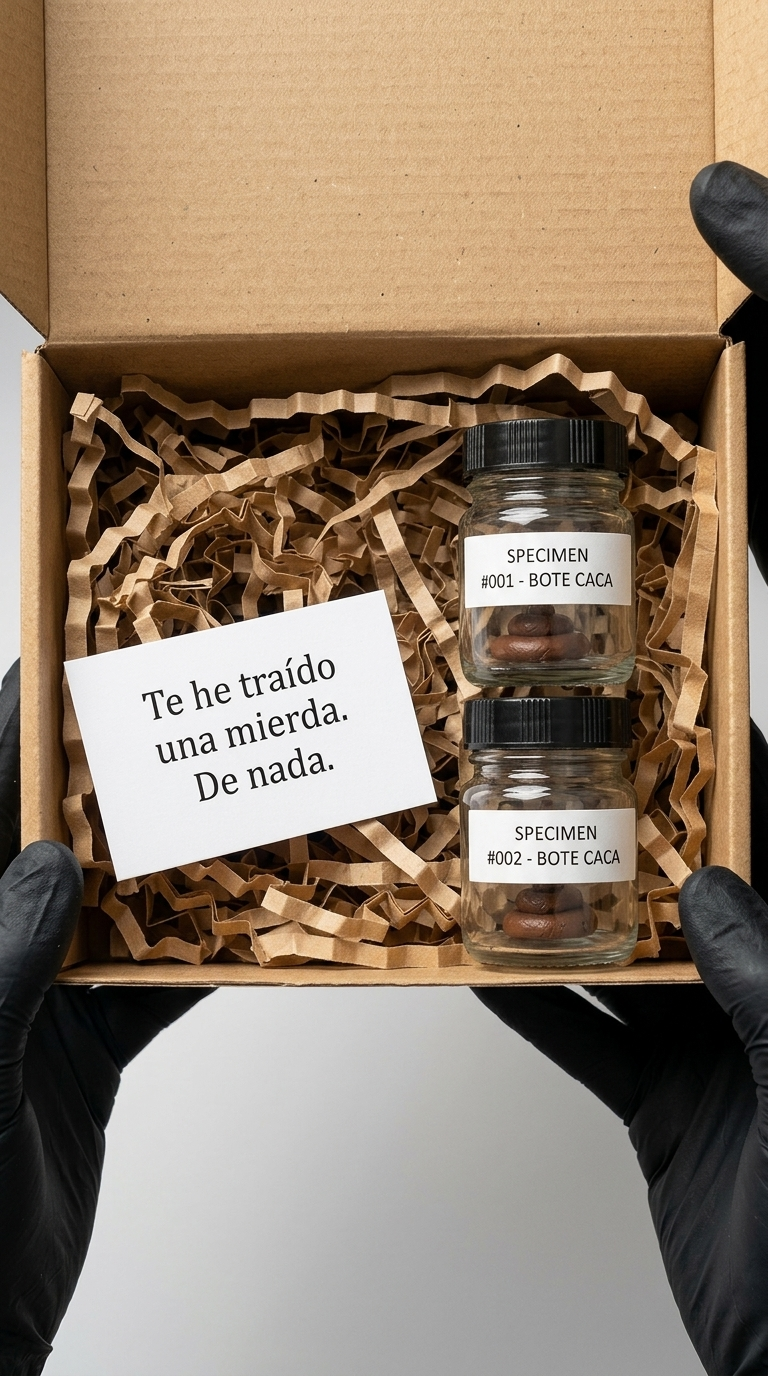
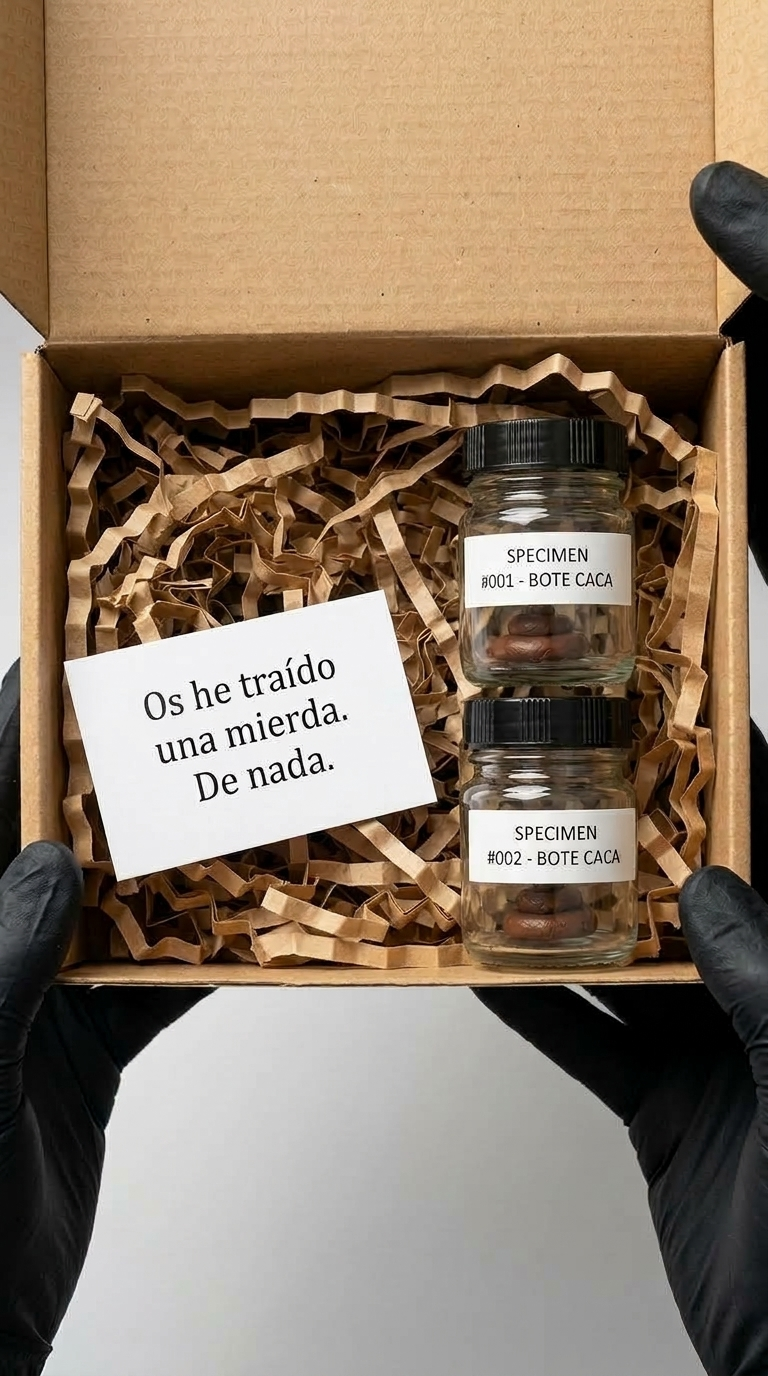
Add files via upload

Changed region(s): [[0.1875, 0.5, 0.25, 0.5312]]

diff --git a/index.html b/index.html
@@ -173,8 +173,8 @@
           </label>
           <div class="space-y-2 mb-2">
             <label class="flex items-center gap-2 text-xs font-semibold p-2.5 bg-white border border-stone-300 rounded-xl cursor-pointer hover:border-stone-900 transition">
-              <input type="radio" name="note-choice" checked onchange="updateCustomNote('Te he traído una mierda. De nada. 💩')" class="text-amber-800 focus:ring-amber-800">
-              <span>«Te he traído una mierda. De nada. 💩»</span>
+              <input type="radio" id="note-default-radio" name="note-choice" checked onchange="updateCustomNote(currentPack === 'duo' ? 'Os he traído una mierda. De nada. 💩' : 'Te he traído una mierda. De nada. 💩')" class="text-amber-800 focus:ring-amber-800">
+              <span id="note-default-text">«Os he traído una mierda. De nada. 💩»</span>
             </label>
             <label class="flex items-center gap-2 text-xs font-semibold p-2.5 bg-white border border-stone-300 rounded-xl cursor-pointer hover:border-stone-900 transition">
               <input type="radio" name="note-choice" onchange="updateCustomNote('Para que tengas algo a tu nivel encima de la mesa. 😉')" class="text-amber-800 focus:ring-amber-800">
@@ -195,7 +195,7 @@
         <div class="p-3 bg-amber-50 rounded-xl border border-amber-200 mb-4 text-center">
           <span class="text-[10px] uppercase font-bold text-amber-800 block mb-1">Vista previa de la tarjeta que recibirá:</span>
           <div class="bg-white p-3 rounded-lg border border-amber-300 shadow-sm font-medium text-xs text-stone-800 italic" id="card-preview">
-            "Te he traído una mierda. De nada. 💩"
+            "Os he traído una mierda. De nada. 💩"
           </div>
         </div>
 
@@ -368,6 +368,17 @@
       if (heroBadge) heroBadge.innerText = data.badge;
       const heroCaption = document.getElementById('product-hero-caption');
       if (heroCaption) heroCaption.innerText = data.caption;
+
+      // Adaptar texto de la dedicatoria según sea individual o dúo (plural)
+      const defaultRadio = document.getElementById('note-default-radio');
+      const defaultText = document.getElementById('note-default-text');
+      if (defaultRadio && defaultText) {
+        const defaultMsg = type === 'duo' ? 'Os he traído una mierda. De nada. 💩' : 'Te he traído una mierda. De nada. 💩';
+        defaultText.innerText = `«${defaultMsg}»`;
+        if (defaultRadio.checked) {
+          updateLiveCard(defaultMsg);
+        }
+      }
     }
 
     function selectRecipient(btn, title, defaultNote) {
